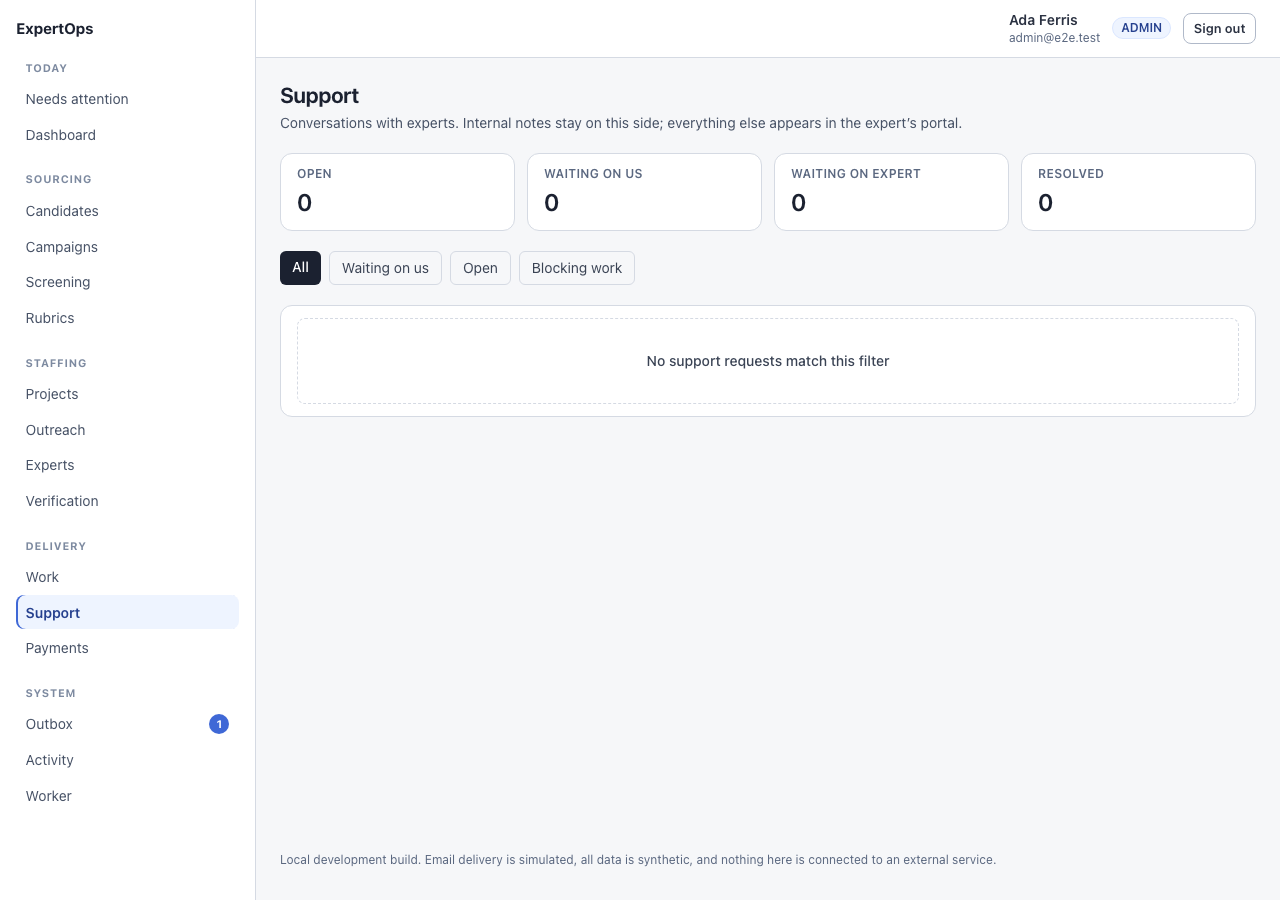
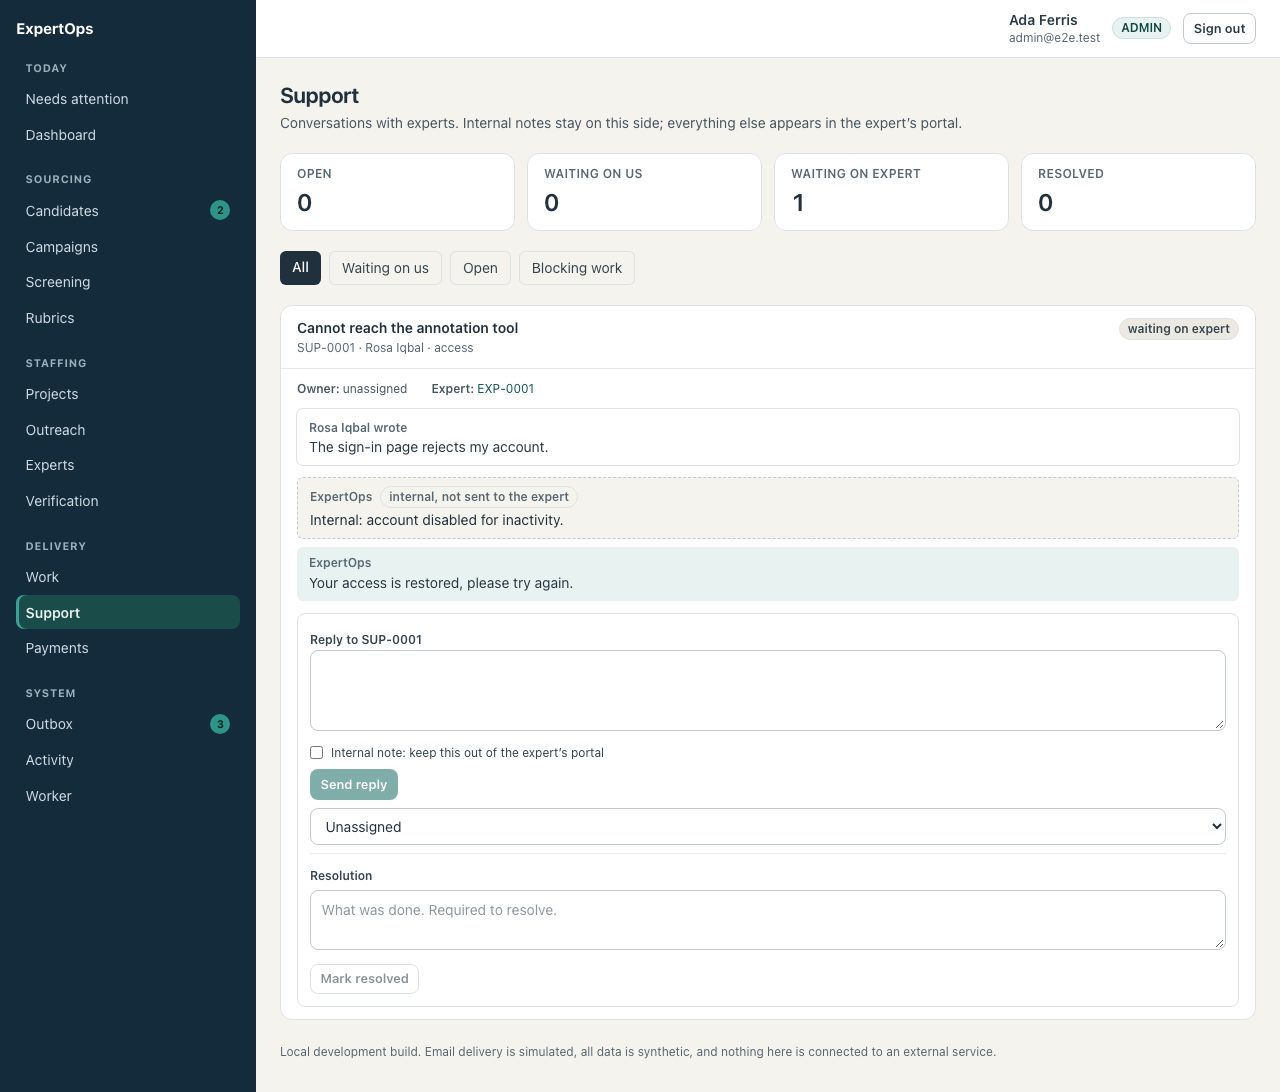
Navy, ivory and teal, instead of white on white
The workspace was white cards on a near-white page, which left nothing to tell
the eye where the page started. The rail is deep navy now, the page warm ivory
so a white card reads as raised, and a single deep teal carries everything that
can be acted on: primary buttons, the selected section, links, focus rings.

All of it comes from the token block, so the operator pages, the sign-in screen,
the candidate portal and the expert portal moved together rather than one at a
time.

Two colours are darker than the brief asked for, on purpose. The muted grey used
for timestamps and references was 2.96:1 on white, which is not readable text; it
is 5.34:1 now. The selected rail item is teal-tinted navy rather than solid teal,
because a solid accent block down the side competes with the page it is pointing
at — the bright bar on its edge does the pointing instead.

Success, warning and error keep their own hues and stay paired with words, so
"needs a written answer" is still legible as a warning without relying on the
colour alone. Every pair in the palette was checked against WCAG AA at normal
text size before it was applied.

The sign-in screen gains a navy mark. It is the first thing anyone sees, and a
form floating on an empty field said nothing about the product.

Claude-Session: https://claude.ai/code/session_01Q9tMXQKVu3a4FZD3t3pNbJ

diff --git a/src/app/globals.css b/src/app/globals.css
@@ -1,22 +1,38 @@
 @import 'tailwindcss';
 
+/**
+ * One palette, defined once.
+ *
+ * Warm ivory for the page so white cards read as raised rather than as more of
+ * the same, deep navy for the rail so the eye knows where it is, and a single
+ * deep teal for anything that can be acted on. Every pair below was checked
+ * against WCAG AA at normal text size; the muted greys are darker than they
+ * look like they need to be for exactly that reason.
+ */
 @theme {
-  --color-ink-50: #f6f7f9;
-  --color-ink-100: #eceef2;
-  --color-ink-200: #d5dae3;
-  --color-ink-300: #b0b9c9;
-  --color-ink-400: #7d8aa0;
-  --color-ink-500: #5b6880;
-  --color-ink-600: #475266;
-  --color-ink-700: #3a4354;
-  --color-ink-800: #2a3141;
-  --color-ink-900: #1b2130;
-  --color-accent-50: #eef4ff;
-  --color-accent-100: #dbe7ff;
-  --color-accent-300: #96b6ff;
-  --color-accent-500: #3f68d6;
-  --color-accent-600: #2f52b5;
-  --color-accent-700: #26418f;
+  --color-ink-50: #f5f3ee; /* page background, warm ivory */
+  --color-ink-100: #ece9e2; /* subtle fill inside a card */
+  --color-ink-200: #dde3e5; /* card and table borders */
+  --color-ink-300: #c2cbd0; /* input borders */
+  --color-ink-400: #5f6d76; /* muted text: still AA on white and on ivory */
+  --color-ink-500: #586873; /* secondary text */
+  --color-ink-600: #47565f;
+  --color-ink-700: #35454f;
+  --color-ink-800: #2a3a45;
+  --color-ink-900: #20313d; /* main text, dark slate */
+
+  --color-accent-50: #e8f2f0; /* teal tint */
+  --color-accent-100: #c9e2de;
+  --color-accent-300: #6fb5ac; /* focus ring */
+  --color-accent-500: #176b65; /* primary */
+  --color-accent-600: #125853; /* primary hover */
+  --color-accent-700: #0e4641; /* teal text on a teal tint */
+
+  --color-navy-900: #142b3b; /* the rail */
+  --color-navy-800: #1d3a4b;
+  --color-navy-700: #2a4a5c;
+  --color-navy-100: #9db0bd; /* muted text on the rail */
+  --color-navy-50: #e8f2f0;
 }
 
 :root {
@@ -174,14 +190,15 @@ table.data tr:last-child td {
    Shell: a sidebar on desktop, a bar with a menu on narrow screens.
    --------------------------------------------------------------------------- */
 .sidebar {
-  background: white;
-  border-bottom: 1px solid var(--color-ink-200);
+  background: var(--color-navy-900);
+  border-bottom: 1px solid var(--color-navy-800);
+  color: white;
 }
 
 @media (min-width: 1024px) {
   .sidebar {
     border-bottom: none;
-    border-right: 1px solid var(--color-ink-200);
+    border-right: none;
   }
 
   /* The column carries the background for the whole page height; only the
@@ -204,6 +221,11 @@ table.data tr:last-child td {
   color: var(--color-ink-900);
 }
 
+/* On the rail the brand sits on navy, so it inherits the light treatment. */
+.sidebar .brand {
+  color: white;
+}
+
 .topbar {
   display: flex;
   justify-content: flex-end;
@@ -223,7 +245,7 @@ table.data tr:last-child td {
   font-weight: 700;
   text-transform: uppercase;
   letter-spacing: 0.07em;
-  color: var(--color-ink-400);
+  color: var(--color-navy-100);
   padding: 0 0.6rem;
   margin-bottom: 0.35rem;
 }
@@ -236,33 +258,63 @@ table.data tr:last-child td {
   border-radius: 0.5rem;
   padding: 0.4rem 0.6rem;
   font-size: 0.875rem;
-  color: var(--color-ink-600);
+  color: #cfdae2;
 }
 
 .nav-link:hover {
-  background: var(--color-ink-100);
-  color: var(--color-ink-900);
+  background: var(--color-navy-800);
+  color: white;
 }
 
+/* Teal-tinted rather than teal: a solid accent block down the rail competes
+   with the page. The bar on the edge does the pointing. */
 .nav-link-active {
-  background: var(--color-accent-50);
-  color: var(--color-accent-700);
+  background: #1a4d4a;
+  color: var(--color-navy-50);
   font-weight: 600;
-  box-shadow: inset 2px 0 0 var(--color-accent-500);
+  box-shadow: inset 3px 0 0 #3aa294;
+}
+
+.nav-link-active:hover {
+  background: #1f5a56;
+  color: white;
+}
+
+/* A focus ring has to be visible against navy, not just against white. */
+.sidebar a:focus-visible,
+.sidebar button:focus-visible {
+  outline: 2px solid #6fb5ac;
+  outline-offset: 2px;
 }
 
 .nav-count {
   flex: none;
   min-width: 1.25rem;
   border-radius: 999px;
-  background: var(--color-accent-500);
+  background: #2f9488;
   padding: 0 0.35rem;
   font-size: 0.68rem;
   font-weight: 700;
   line-height: 1.25rem;
   text-align: center;
-  color: white;
+  color: #06231f;
   font-variant-numeric: tabular-nums;
+}
+
+/* The menu trigger and the sheet it opens both sit on the navy rail. */
+.sidebar .btn-secondary {
+  background: transparent;
+  border-color: var(--color-navy-700);
+  color: white;
+}
+
+.sidebar .btn-secondary:hover:not(:disabled) {
+  background: var(--color-navy-800);
+}
+
+.nav-sheet {
+  background: var(--color-navy-900);
+  border-right: 1px solid var(--color-navy-800);
 }
 
 /* ---------------------------------------------------------------------------
@@ -466,4 +518,13 @@ table.data th {
   border-color: #fde68a;
   background: #fffbeb;
   color: #78350f;
+}
+
+/* The sign-in screen: one navy block, so the first screen looks like the
+   product rather than a form on a blank page. */
+.auth-mark {
+  border-radius: 0.75rem;
+  background: var(--color-navy-900);
+  color: white;
+  padding: 1.1rem 1.25rem;
 }

diff --git a/tests/e2e/screenshots.spec.ts b/tests/e2e/screenshots.spec.ts
@@ -79,6 +79,22 @@ test('capture the walkthrough screenshots', async ({ browser }) => {
         candidate.page.getByRole('heading', { name: /Hello, Screenshot/ }),
       ).toBeVisible();
       await shoot(candidate.page, 'candidate-screening', viewport.name);
+
+      // The sign-in screen, in a context that has never authenticated, so no
+      // field is pre-filled and nothing credential-bearing is captured.
+      const signedOut = await browser.newContext({
+        viewport: { width: viewport.width, height: viewport.height },
+      });
+      try {
+        const page = await signedOut.newPage();
+        await page.goto('/login');
+        await expect(page.getByRole('heading', { name: 'ExpertOps' })).toBeVisible();
+        await expect(page.getByLabel('Work email')).toHaveValue('');
+        await expect(page.getByLabel('Password')).toHaveValue('');
+        await shoot(page, 'operator-login', viewport.name);
+      } finally {
+        await signedOut.close();
+      }
     }
   } finally {
     await operator.context.close();

diff --git a/src/app/(auth)/login/page.tsx b/src/app/(auth)/login/page.tsx
@@ -15,9 +15,12 @@ export default async function LoginPage() {
 
   return (
     <main className="mx-auto flex min-h-screen w-full max-w-md flex-col justify-center gap-6 px-6 py-12">
-      <header>
-        <h1 className="text-xl font-semibold text-ink-900">ExpertOps</h1>
-        <p className="mt-1 text-sm text-ink-600">
+      {/* The sign-in screen is the first impression of the workspace, so it
+          carries the same navy the rail does rather than floating a card on an
+          empty field. */}
+      <header className="auth-mark">
+        <h1 className="text-xl font-semibold">ExpertOps</h1>
+        <p className="mt-1 text-sm text-navy-100">
           Operator workspace for sourcing, onboarding and staffing expert engagements.
         </p>
       </header>

diff --git a/src/components/operator-nav.tsx b/src/components/operator-nav.tsx
@@ -136,13 +136,13 @@ export function OperatorNav({
             type="button"
             aria-label="Close the menu"
             tabIndex={-1}
-            className="absolute inset-0 bg-ink-900/30"
+            className="absolute inset-0 bg-navy-900/50"
             onClick={() => setOpen(false)}
           />
           <nav
             id={panelId}
             aria-label="Sections"
-            className="absolute inset-y-0 left-0 w-72 max-w-[85vw] overflow-y-auto border-r border-ink-200 bg-white px-4 py-4 shadow-lg"
+            className="nav-sheet absolute inset-y-0 left-0 w-72 max-w-[85vw] overflow-y-auto px-4 py-4 shadow-lg"
           >
             <NavLinks
               groups={groups}
